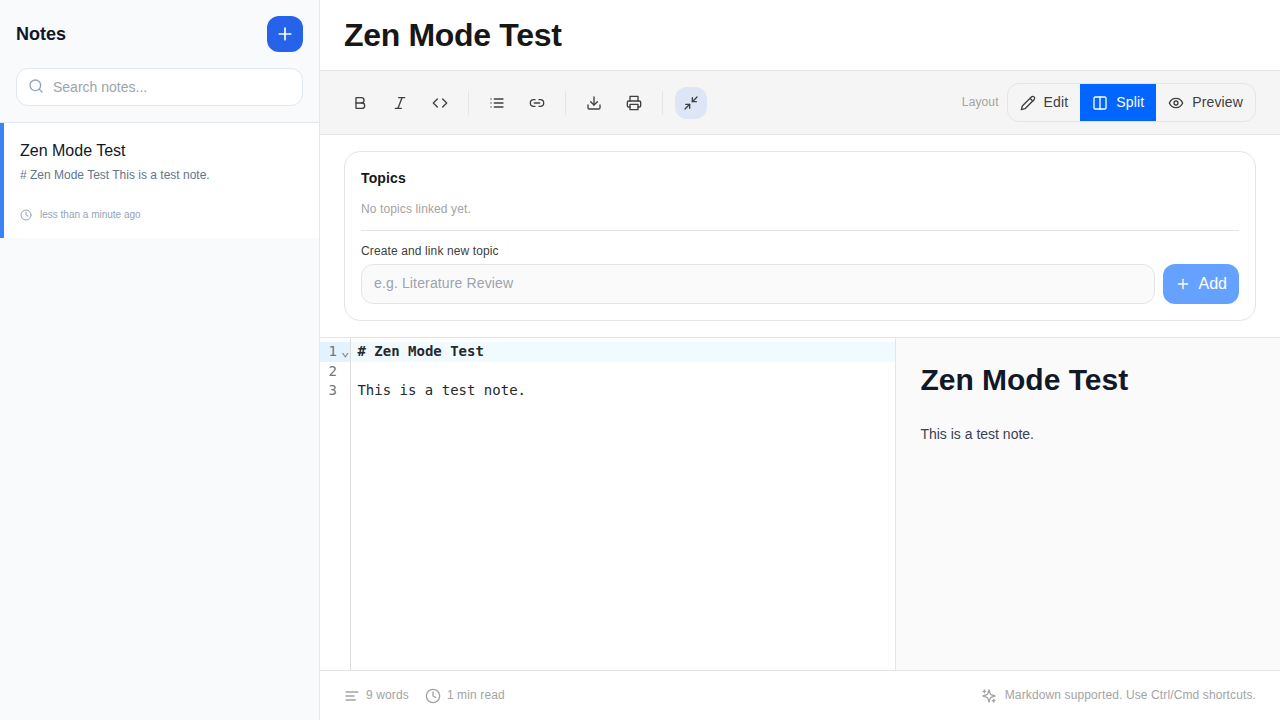
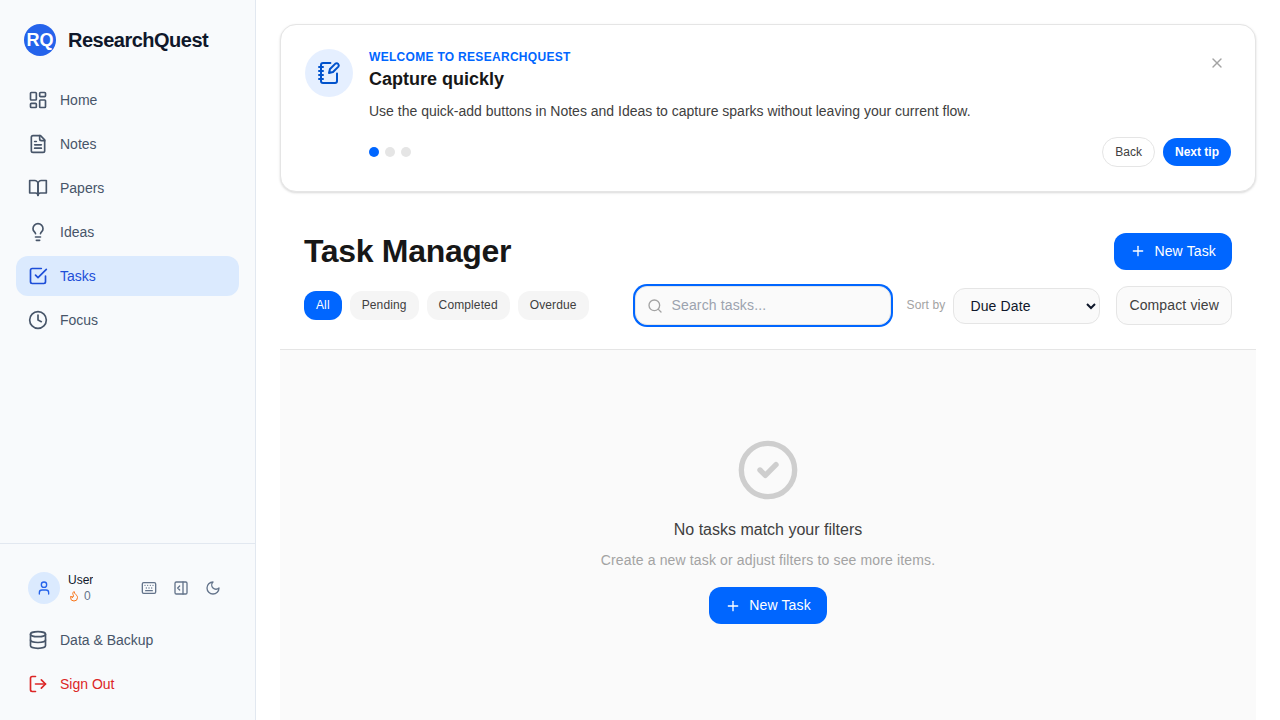
feat(ui): add clear search button to Task Manager (#151)
- Add conditional X button to search input in TaskManager
- Add unit test for clear button functionality
- Improve accessibility with aria-label and focus management

diff --git a/researchquest/src/test/components/TaskManagerClearButton.test.tsx b/researchquest/src/test/components/TaskManagerClearButton.test.tsx
@@ -1,0 +1,63 @@
+import { describe, it, expect, vi } from 'vitest'
+import { render, screen } from '@testing-library/react'
+import userEvent from '@testing-library/user-event'
+import { TaskManager } from '../../components/tasks/TaskManager'
+
+// Mock Supabase client
+vi.mock('../../lib/supabase', () => ({
+  supabase: {
+    auth: {
+      getUser: vi.fn().mockResolvedValue({ data: { user: { id: 'test-user' } } }),
+    },
+  },
+}))
+
+// Mock useTasks hook
+vi.mock('../../hooks/useTasks', () => ({
+  useTasks: () => ({
+    tasks: [
+        {
+            id: '1',
+            title: 'Test Task',
+            completed: false,
+            created_at: new Date().toISOString(),
+            priority: 'medium',
+            user_id: 'test-user',
+        }
+    ],
+    loading: false,
+    createTask: vi.fn(),
+    updateTask: vi.fn(),
+    completeTask: vi.fn(),
+    deleteTask: vi.fn(),
+  }),
+}))
+
+describe('TaskManager Search Clear Button', () => {
+  it('shows clear button when typing and clears input on click', async () => {
+    const user = userEvent.setup()
+    render(<TaskManager />)
+
+    const searchInput = screen.getByLabelText('Search tasks')
+
+    // Type something
+    await user.type(searchInput, 'Task')
+    expect(searchInput).toHaveValue('Task')
+
+    // Expect clear button to appear
+    const clearButton = screen.getByLabelText('Clear search')
+    expect(clearButton).toBeInTheDocument()
+
+    // Click clear button
+    await user.click(clearButton)
+
+    // Expect input to be empty
+    expect(searchInput).toHaveValue('')
+
+    // Expect input to be focused
+    expect(searchInput).toHaveFocus()
+
+    // Expect clear button to be gone
+    expect(screen.queryByLabelText('Clear search')).not.toBeInTheDocument()
+  })
+})

diff --git a/researchquest/src/components/tasks/TaskManager.tsx b/researchquest/src/components/tasks/TaskManager.tsx
@@ -455,11 +455,12 @@ export function TaskManager() {
               />
               {searchQuery && (
                 <button
+                  type="button"
                   onClick={() => {
                     setSearchQuery("");
                     searchInputRef.current?.focus();
                   }}
-                  className="absolute right-2 top-1/2 -translate-y-1/2 p-1 text-text-tertiary hover:text-text-primary rounded-full transition-colors focus:outline-none focus:ring-2 focus:ring-primary-500"
+                  className="absolute right-2 top-1/2 -translate-y-1/2 p-1 text-text-tertiary hover:text-text-primary hover:bg-bg-elevated rounded-full transition-colors focus:outline-none focus:ring-2 focus:ring-primary-500"
                   aria-label="Clear search"
                 >
                   <X className="w-3 h-3" />

diff --git a/.jules/palette.md b/.jules/palette.md
@@ -49,3 +49,7 @@
 ## 2024-03-15 - ARIA Labels and Buttons
 **Learning:** Adding `aria-label`s to standard `<button>` elements that already contain clear, identical visible text is an accessibility anti-pattern (it overrides the native text and can cause confusing double-announcements). Interactive card elements built from generic containers (like `<div>`s) need `role="button"` and `tabIndex={0}` to be accessible, but if they are already semantically `<button>` tags, adding `role="button"` is redundant and unnecessary. Adding `aria-hidden="true"` to decorative icons inside buttons is good practice to prevent redundant screen reader announcements.
 **Action:** Before adding `aria-label`s, check if the button has visible descriptive text. If it does, rely on the native text. Ensure any interactive, clickable card element uses the correct semantic tags (`<button>`) or has `role="button"` and `tabIndex={0}` if using `<div>`, but don't mix them up. Only apply `aria-hidden="true"` to purely decorative elements like SVG icons inside accessible buttons.
+
+## 2026-02-21 - Search Input Clear Button
+**Learning:** Consistent search inputs (in TaskManager, NotesView) benefit from a UX pattern where a conditional "Clear" button appears when text is present. This button must restore focus to the input after clearing to maintain keyboard flow.
+**Action:** Implement search inputs with a relative container, an absolute-positioned 'X' icon button (using `aria-label="Clear search"`), and use `useRef` to programmatically focus the input after clearing.
